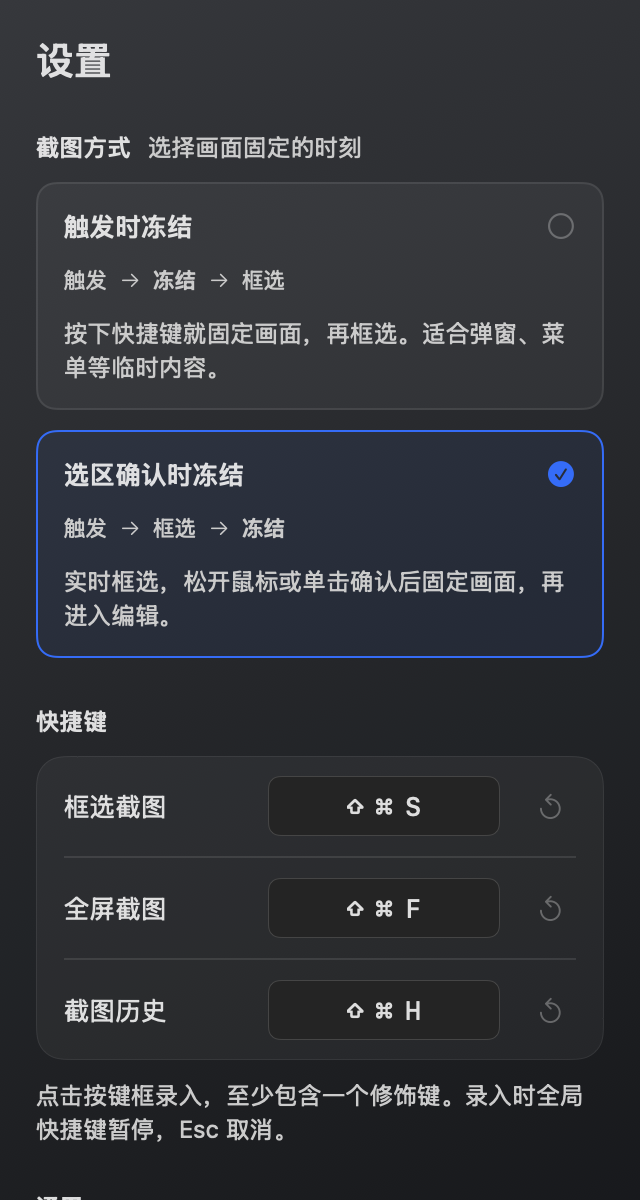
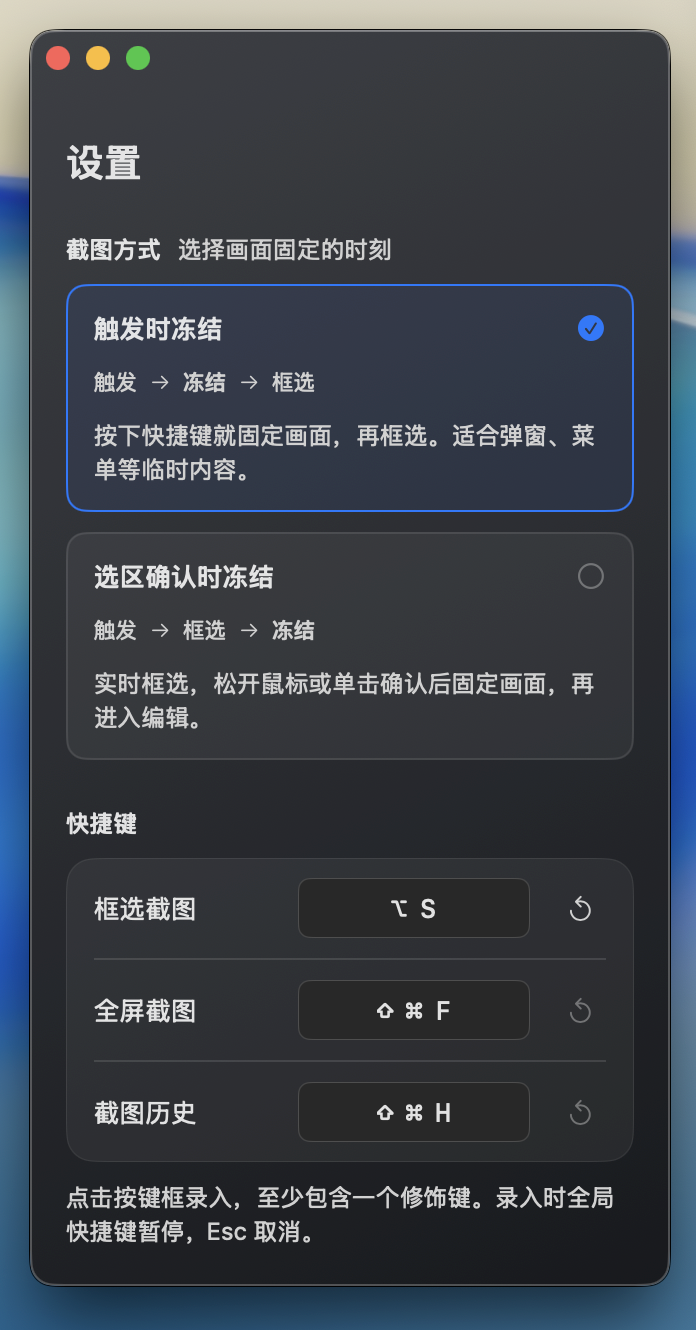
Replace settings previews with original application screenshots

diff --git a/README.md b/README.md
@@ -77,7 +77,7 @@ SnapX 是一款常驻 Mac 菜单栏的截图工具。框选之后直接在原位
   <img src="docs/images/settings-dark.png" width="320" alt="当前深色设置界面：相同布局与蓝色强调色">
 </p>
 
-*当前应用代码渲染的设置页上半部分；展示真实控件与布局，不含系统窗口装饰。*
+*以上为已安装 SnapX 的实际窗口截图，保留原始画面。浅色图左上角的紫色标记为系统控制提示，不属于 SnapX 界面；图中的 ⌥S 为自定义快捷键，默认仍为 ⌘⇧S。*
 
 支持跟随系统、浅色和深色外观，切换时平滑过渡。设置页使用细浮动滚动条，快捷键、登录时启动和权限入口集中在一处。
 
